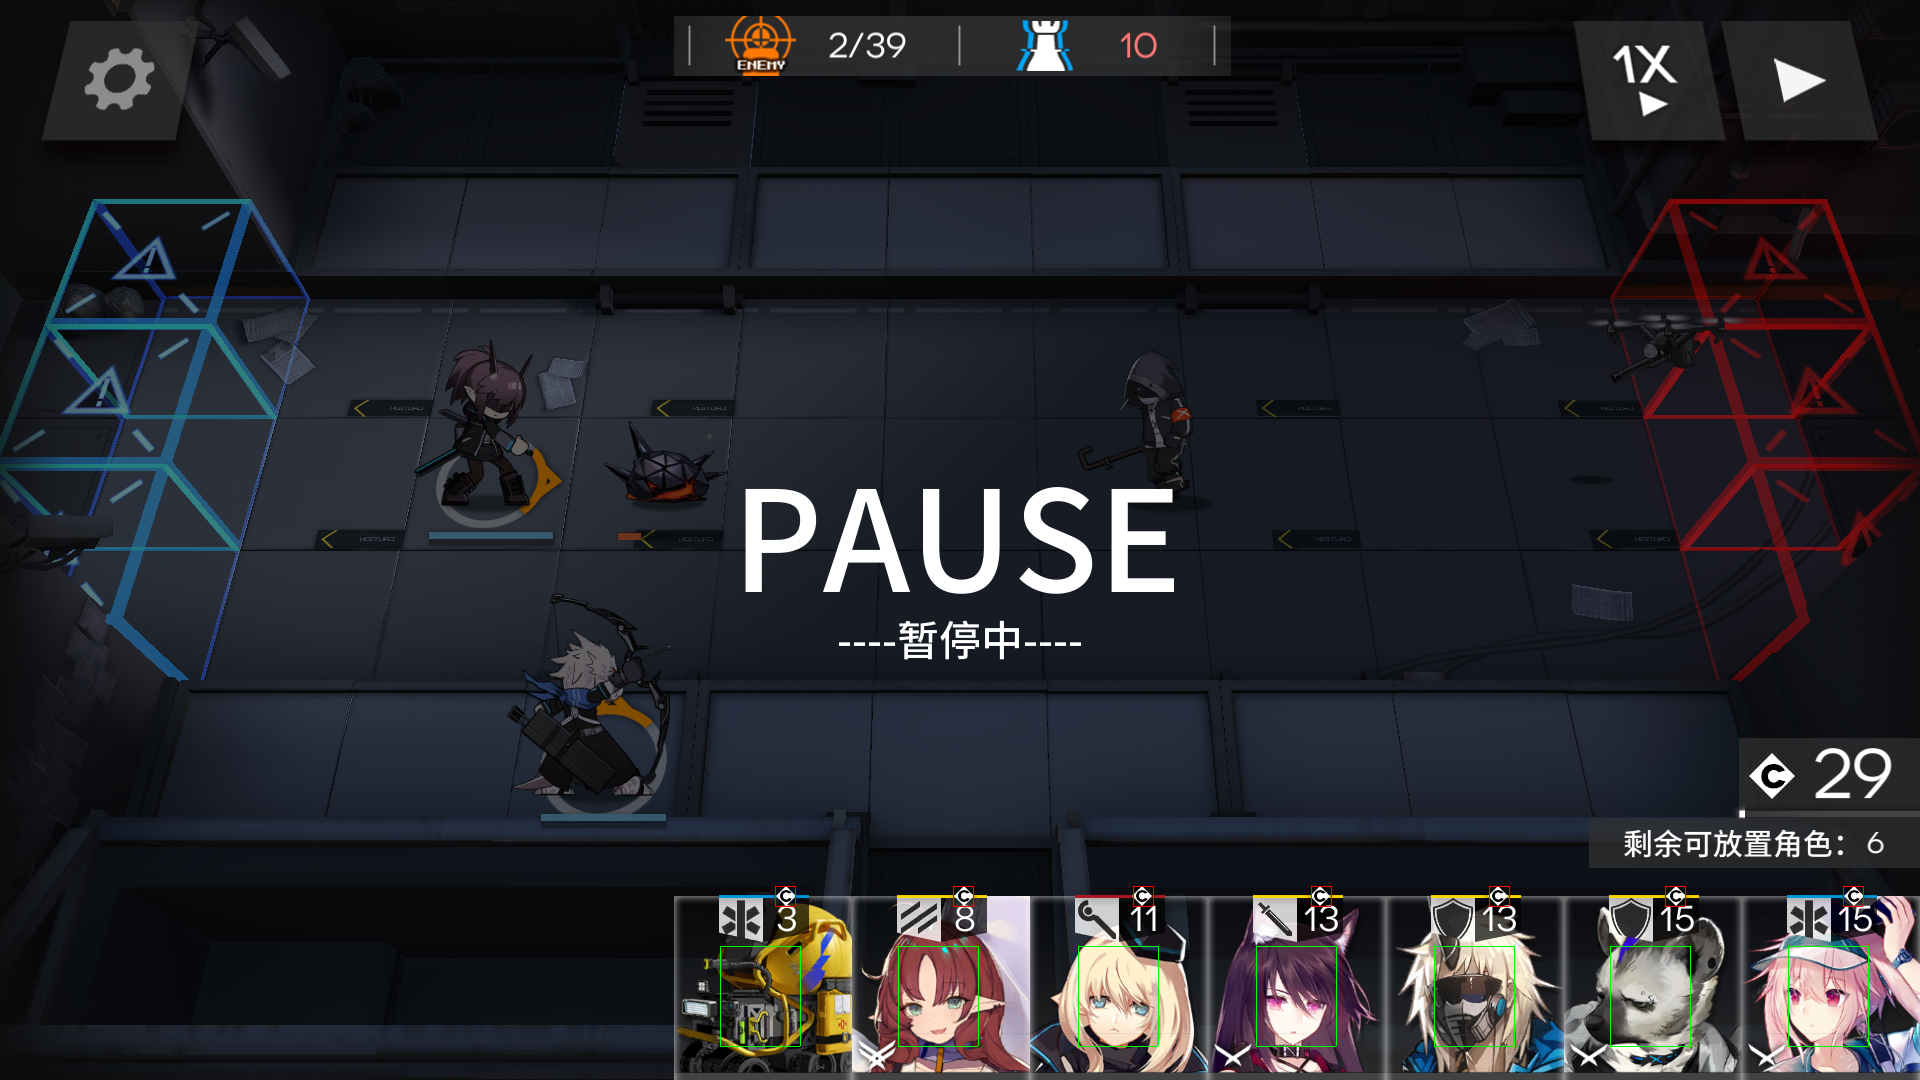
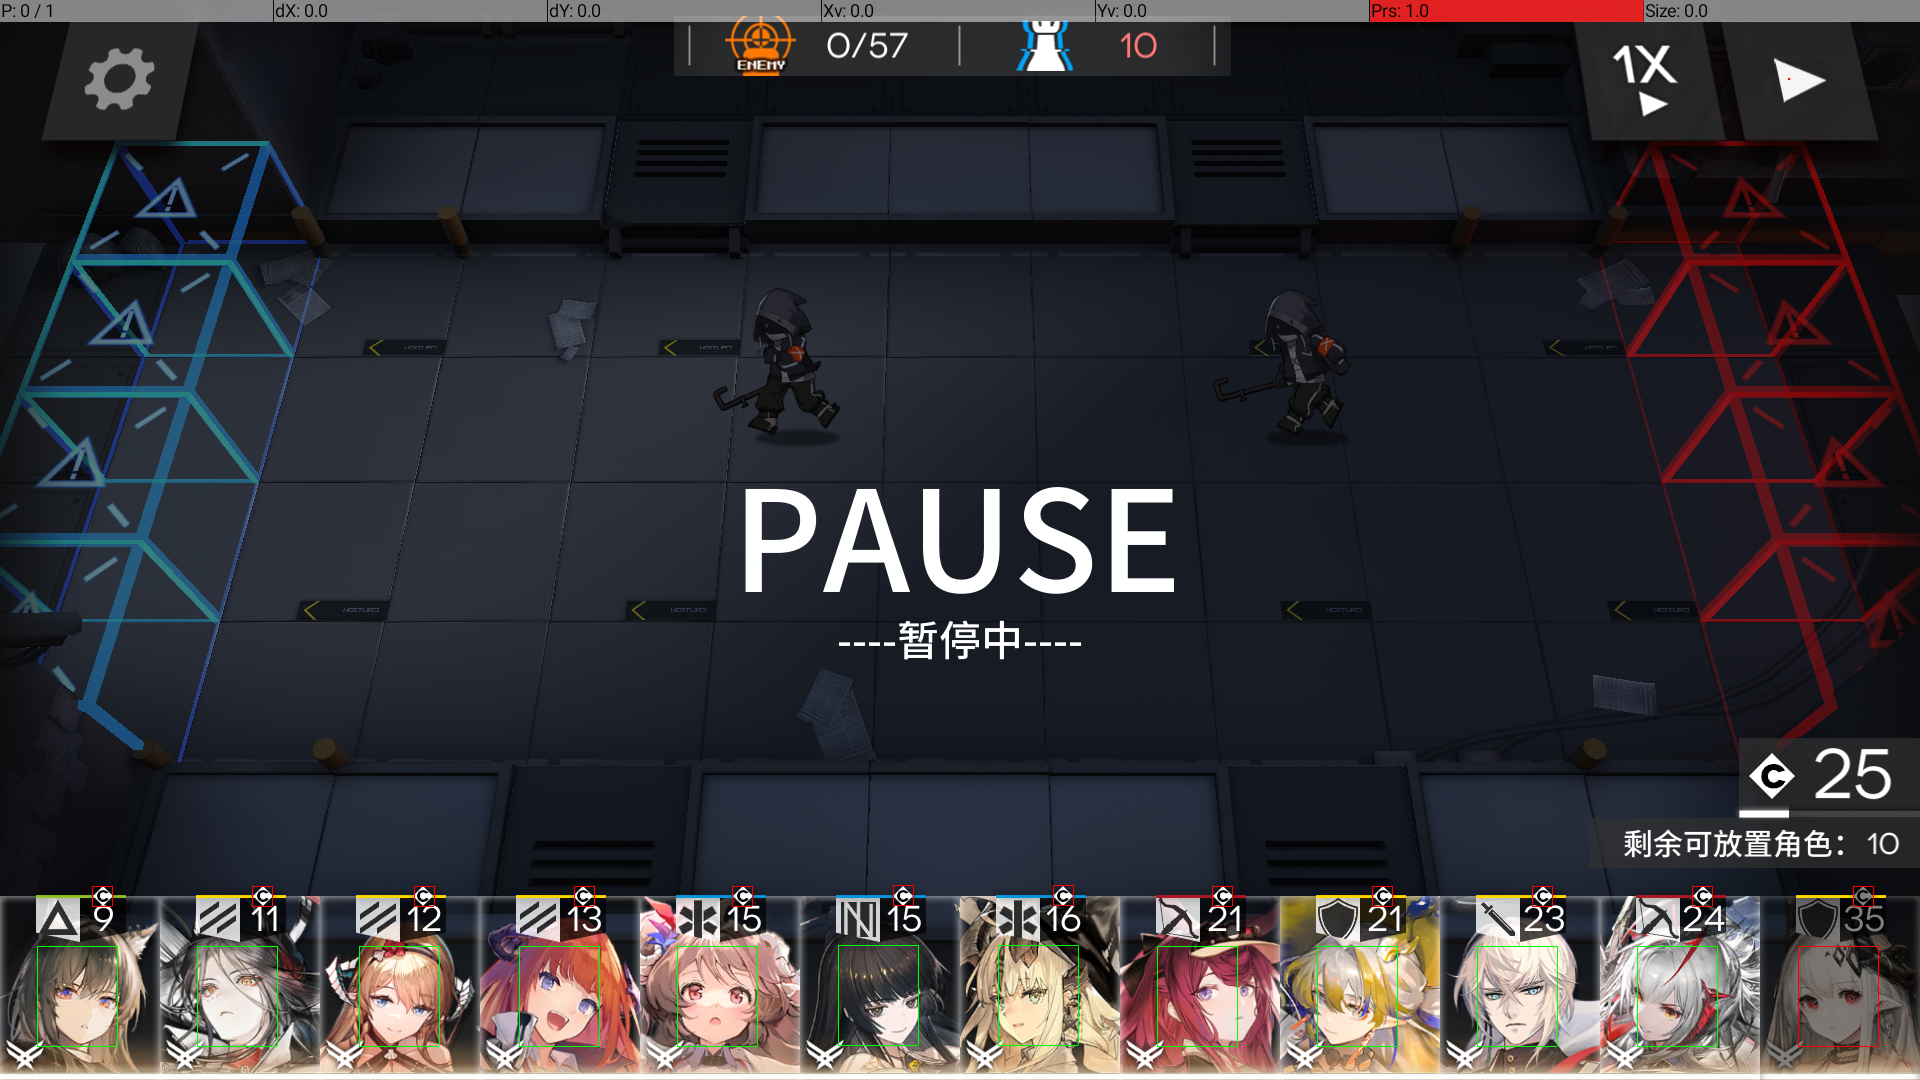
feat: support all chars in copilot

diff --git a/packages/aah-core/src/task/copilot.rs b/packages/aah-core/src/task/copilot.rs
@@ -31,16 +31,6 @@ use super::{builtins::ActionClickMatch, match_task::MatchTask, Task};
 #[derive(Debug, Serialize, Deserialize)]
 pub struct CopilotTask(pub String);
 
-// #[derive(Debug, Serialize, Deserialize)]
-// pub enum CopilotActions {
-//     SpeedUp,
-//     Deploy {
-//         name: String,
-//         tile_pos: (u32, u32),
-//         direction: Direction,
-//     },
-// }
-
 impl Task for CopilotTask {
     type Err = String;
     fn run(&self, aah: &crate::AAH) -> Result<Self::Res, Self::Err> {
@@ -101,7 +91,8 @@ impl Task for CopilotTask {
 
         let level_retreat_screen_pos = level.get_retreat_screen_pos();
         let level_skill_screen_pos = level.get_skill_screen_pos();
-        let mut battle_analyzer = BattleAnalyzer::new(&aah.res_dir);
+        let mut battle_analyzer =
+            BattleAnalyzer::new(&aah.res_dir, copilot_task.operators.values().collect());
         // wait for battle begins
         aah.emit_task_evt(TaskEvt::Log("[INFO]: 正在等待关卡开始...".to_string()));
         cprintln!("{log_tag}waiting for battle to begin...");
@@ -213,7 +204,9 @@ impl Task for CopilotTask {
                             direction,
                             ..
                         } => {
-                            aah.emit_task_evt(TaskEvt::Log(format!("[INFO]: 正在匹配 {operator} 部署卡片...")));
+                            aah.emit_task_evt(TaskEvt::Log(format!(
+                                "[INFO]: 正在匹配 {operator} 部署卡片..."
+                            )));
                             cprintln!(
                                 "{log_tag}looking for operator's deploy card {}...",
                                 operator
@@ -225,11 +218,15 @@ impl Task for CopilotTask {
                                         && card.available == true
                                 })
                             {
-                                aah.emit_task_evt(TaskEvt::Log(format!("[INFO]: 已找到，正在计算地块屏幕坐标...")));
+                                aah.emit_task_evt(TaskEvt::Log(format!(
+                                    "[INFO]: 已找到，正在计算地块屏幕坐标..."
+                                )));
                                 cprintln!("{log_tag}found! {:?}", card);
                                 cprintln!("{log_tag}calculating tile screen pos...");
                                 let tile_pos = level.calc_tile_screen_pos(tile.0, tile.1, true);
-                                aah.emit_task_evt(TaskEvt::Log(format!("[INFO]: 地块屏幕坐标 {tile_pos:?}")));
+                                aah.emit_task_evt(TaskEvt::Log(format!(
+                                    "[INFO]: 地块屏幕坐标 {tile_pos:?}"
+                                )));
                                 cprintln!("{log_tag}tile screen pos: {:?}", tile_pos);
                                 let task1 = ActionSwipe::new(
                                     (card.rect.x, card.rect.y),
@@ -269,7 +266,9 @@ impl Task for CopilotTask {
                         }
                         BattleCommand::Retreat { operator, .. } => {
                             cprintln!("{log_tag} retreating {operator}...");
-                            aah.emit_task_evt(TaskEvt::Log(format!("[INFO]: 正在撤退干员 {operator}...")));
+                            aah.emit_task_evt(TaskEvt::Log(format!(
+                                "[INFO]: 正在撤退干员 {operator}..."
+                            )));
                             if let Some(tile_pos) = deployed_operators.get(operator).cloned() {
                                 let click1 =
                                     level.calc_tile_screen_pos(tile_pos.0, tile_pos.1, false);
@@ -285,7 +284,9 @@ impl Task for CopilotTask {
                                 );
                                 if task1.run(aah).and(task2.run(aah)).is_ok() {
                                     deployed_operators.remove(operator);
-                                    aah.emit_task_evt(TaskEvt::Log(format!("[INFO]: {operator} 已撤退")));
+                                    aah.emit_task_evt(TaskEvt::Log(format!(
+                                        "[INFO]: {operator} 已撤退"
+                                    )));
                                     success = true;
                                 }
                             }

diff --git a/packages/aah-core/src/lib.rs b/packages/aah-core/src/lib.rs
@@ -14,13 +14,13 @@ use controller::{aah_controller::AahController, Controller};
 use ocrs::{OcrEngine, OcrEngineParams};
 use rten::Model;
 use task::{copilot::CopilotTask, TaskEvt};
-use vision::analyzer::{
+use vision::{analyzer::{
     battle::{
         deploy::{DeployAnalyzer, DeployAnalyzerOutput, EXAMPLE_DEPLOY_OPERS},
         BattleAnalyzer, BattleState,
     },
     Analyzer,
-};
+}, utils::resource::get_opers};
 
 use crate::task::Task;
 
@@ -44,7 +44,8 @@ pub struct AAH {
     // /// 屏幕内容的缓存
     screen_cache: Mutex<Option<image::DynamicImage>>,
     on_task_evt: Box<dyn Fn(TaskEvt) + Sync + Send>,
-    ocr_engine: OcrEngine,
+    // ocr_engine: OcrEngine,
+    // default_oper_list: Vec<String>,
 }
 
 pub fn init_ocr_engine<P: AsRef<Path>>(res_dir: P) -> OcrEngine {
@@ -90,7 +91,9 @@ impl AAH {
         // let controller = Box::new(AdbInputController::connect(serial)?);
         let controller = Box::new(AahController::connect(serial, &res_dir)?);
 
-        let ocr_engine = init_ocr_engine(&res_dir);
+        // let ocr_engine = init_ocr_engine(&res_dir);
+        // let default_oper_list = get_opers(&res_dir);
+        // println!("{}", default_oper_list.len());
         Ok(Self {
             res_dir,
             controller,
@@ -99,7 +102,8 @@ impl AAH {
             navigate_config,
             on_task_evt: Box::new(on_task_evt),
             screen_cache: Mutex::new(None),
-            ocr_engine,
+            // ocr_engine,
+            // default_oper_list
         })
     }
 
@@ -188,7 +192,9 @@ impl AAH {
     }
 
     /// 截取当前帧的屏幕内容，分析部署卡片，返回 [`DeployAnalyzerOutput`]
+    /// 通过该函数进行的分析只包含 [`EXAMPLE_DEPLOY_OPERS`] 中的干员
     pub fn analyze_deploy(&self) -> Result<DeployAnalyzerOutput, String> {
+        // self.default_oper_list.clone() cost 52s
         let mut analyzer = DeployAnalyzer::new(&self.res_dir, EXAMPLE_DEPLOY_OPERS.to_vec());
         analyzer.analyze(self)
     }
@@ -212,8 +218,9 @@ impl AAH {
     ///
     /// 分析信息会通过 [`TaskEvt::BattleAnalyzerRes`] 事件返回，
     /// 出于性能考虑，目前待部署区只设置了识别 [`EXAMPLE_DEPLOY_OPERS`] 中的干员
+    /// TODO: self.default_oper_list.clone() cost 52s
     pub fn start_battle_analyzer(&self) {
-        let mut analyzer = BattleAnalyzer::new(&self.res_dir);
+        let mut analyzer = BattleAnalyzer::new(&self.res_dir, EXAMPLE_DEPLOY_OPERS.to_vec());
         while analyzer.battle_state != BattleState::Completed {
             let output = analyzer.analyze(self).unwrap();
             self.emit_task_evt(TaskEvt::BattleAnalyzerRes(output));

diff --git a/packages/aah-core/src/vision/utils.rs b/packages/aah-core/src/vision/utils.rs
@@ -19,6 +19,29 @@ pub mod resource {
         Ok(image)
     }
 
+    pub fn get_opers<P: AsRef<Path>>(res_dir: P) -> Vec<String> {
+        let res_dir = res_dir.as_ref();
+        let mut opers: Vec<(u32, String)> = vec![];
+        let char_avatars = fs::read_dir(res_dir.join("avatars").join("char")).unwrap();
+        for char_avatar in char_avatars {
+            let char_avatar = char_avatar.unwrap();
+            if char_avatar.file_type().unwrap().is_file() {
+                continue;
+            }
+            let mut name = fs::read_dir(char_avatar.path()).unwrap();
+            let f = name.next().unwrap().unwrap();
+            let name = f.file_name().into_string().unwrap();
+            let name = name.split('_').collect::<Vec<&str>>()[0];
+            let name = name.split('.').collect::<Vec<&str>>()[0];
+            let num = char_avatar.file_name().into_string().unwrap();
+            opers.push((num.parse().unwrap(), name.to_string()));
+        }
+        opers
+            .into_iter()
+            .map(|(num, name)| format!("char_{num:03}_{name}.png"))
+            .collect()
+    }
+
     /// 输入干员列表和资源路径，以 `Vec<(名,头像)>` 形式返回这些干员的所有头像列表
     pub fn get_opers_avatars<S: AsRef<str>, P: AsRef<Path>>(
         opers: Vec<S>,
@@ -51,8 +74,10 @@ pub mod resource {
         let oper = oper.as_ref();
         let res_dir = res_dir.as_ref();
 
+        // println!("{:?}", oper);
         let components = oper.split("_").collect::<Vec<&str>>();
         let path = res_dir.join("avatars").join("char").join(components[1]);
+        // println!("{:?}", path);
 
         let mut images = vec![];
         for f in fs::read_dir(path).unwrap() {

diff --git a/packages/aah-core/src/vision/analyzer/battle/mod.rs b/packages/aah-core/src/vision/analyzer/battle/mod.rs
@@ -8,7 +8,7 @@ use std::{
 };
 
 use color_print::{cformat, cprintln};
-use deploy::{DeployAnalyzer, DeployCard, EXAMPLE_DEPLOY_OPERS};
+use deploy::{DeployAnalyzer, DeployCard};
 use image::DynamicImage;
 use serde::Serialize;
 
@@ -46,8 +46,8 @@ pub struct BattleAnalyzer {
 
 impl BattleAnalyzer {
     /// 创建一个新的 [`BattleAnalyzer`]
-    pub fn new<P: AsRef<Path>>(res_dir: P) -> Self {
-        let deploy_analyzer = DeployAnalyzer::new(&res_dir, EXAMPLE_DEPLOY_OPERS.to_vec());
+    pub fn new<P: AsRef<Path>, S: AsRef<str>>(res_dir: P, oper_names: Vec<S>) -> Self {
+        let deploy_analyzer = DeployAnalyzer::new(&res_dir, oper_names);
         Self {
             res_dir: res_dir.as_ref().to_path_buf(),
             battle_state: BattleState::Unknown,
@@ -127,14 +127,14 @@ impl Analyzer for BattleAnalyzer {
 
 #[cfg(test)]
 mod test {
-    use crate::vision::analyzer::Analyzer;
+    use crate::vision::analyzer::{battle::deploy::EXAMPLE_DEPLOY_OPERS, Analyzer};
 
     use super::BattleAnalyzer;
 
     #[test]
     fn test_battle_analyzer() {
         let aah = crate::AAH::connect("127.0.0.1:16384", "../../resources", |_| {}).unwrap();
-        let mut analyzer = BattleAnalyzer::new(&aah.res_dir);
+        let mut analyzer = BattleAnalyzer::new(&aah.res_dir, EXAMPLE_DEPLOY_OPERS.to_vec());
         let res = analyzer.analyze(&aah).unwrap();
         println!("{:?}", res)
     }

diff --git a/packages/aah-core/src/vision/analyzer/battle/deploy.rs b/packages/aah-core/src/vision/analyzer/battle/deploy.rs
@@ -166,9 +166,15 @@ mod test {
     use crate::{vision::analyzer::Analyzer, AAH};
 
     #[test]
+    fn print_oper_list() {
+
+    }
+
+    #[test]
     fn test_deploy_analyzer() {
         let mut core = AAH::connect("127.0.0.1:16384", "../../resources", |_| {}).unwrap();
         let mut analyzer = DeployAnalyzer::new(&core.res_dir, EXAMPLE_DEPLOY_OPERS.to_vec());
+        // let mut analyzer = DeployAnalyzer::new(&core.res_dir, core.default_oper_list.clone()); // self.default_oper_list.clone() cost 52s
         let output = analyzer.analyze(&mut core).unwrap();
         output.annotated_screen.save("./assets/output.png").unwrap();
         println!("{:?}", output.deploy_cards);

diff --git a/packages/aah-core/src/vision/analyzer/mod.rs b/packages/aah-core/src/vision/analyzer/mod.rs
@@ -5,7 +5,7 @@ use crate::AAH;
 pub mod battle;
 pub mod multi_match;
 pub mod single_match;
-mod ocr;
+// mod ocr;
 
 /// [`Analyzer`] 接收图像，返回分析结果 [`Analyzer::Output`]
 pub trait Analyzer {
